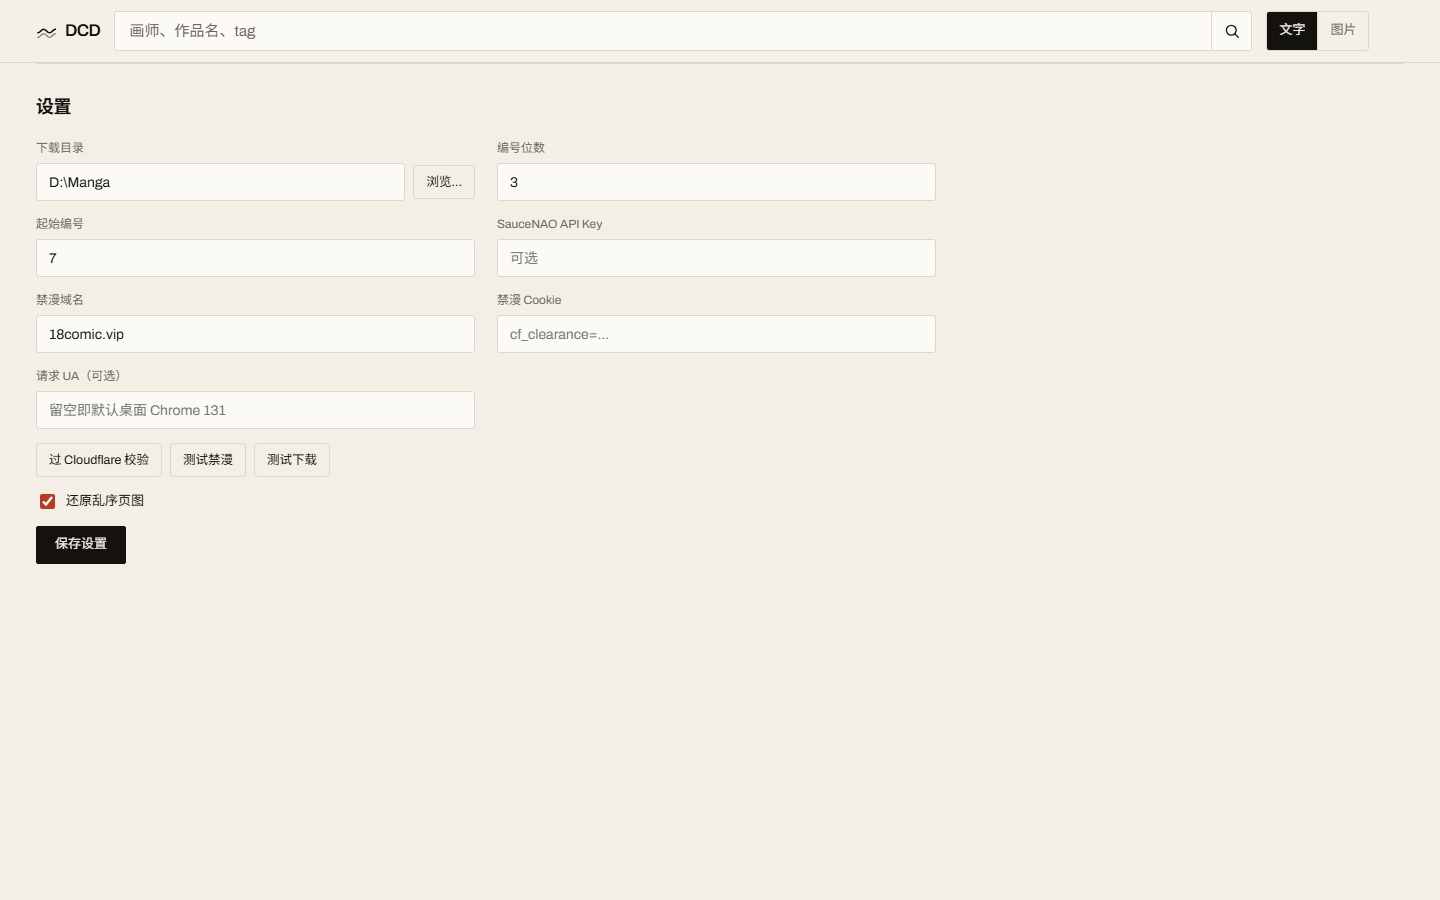
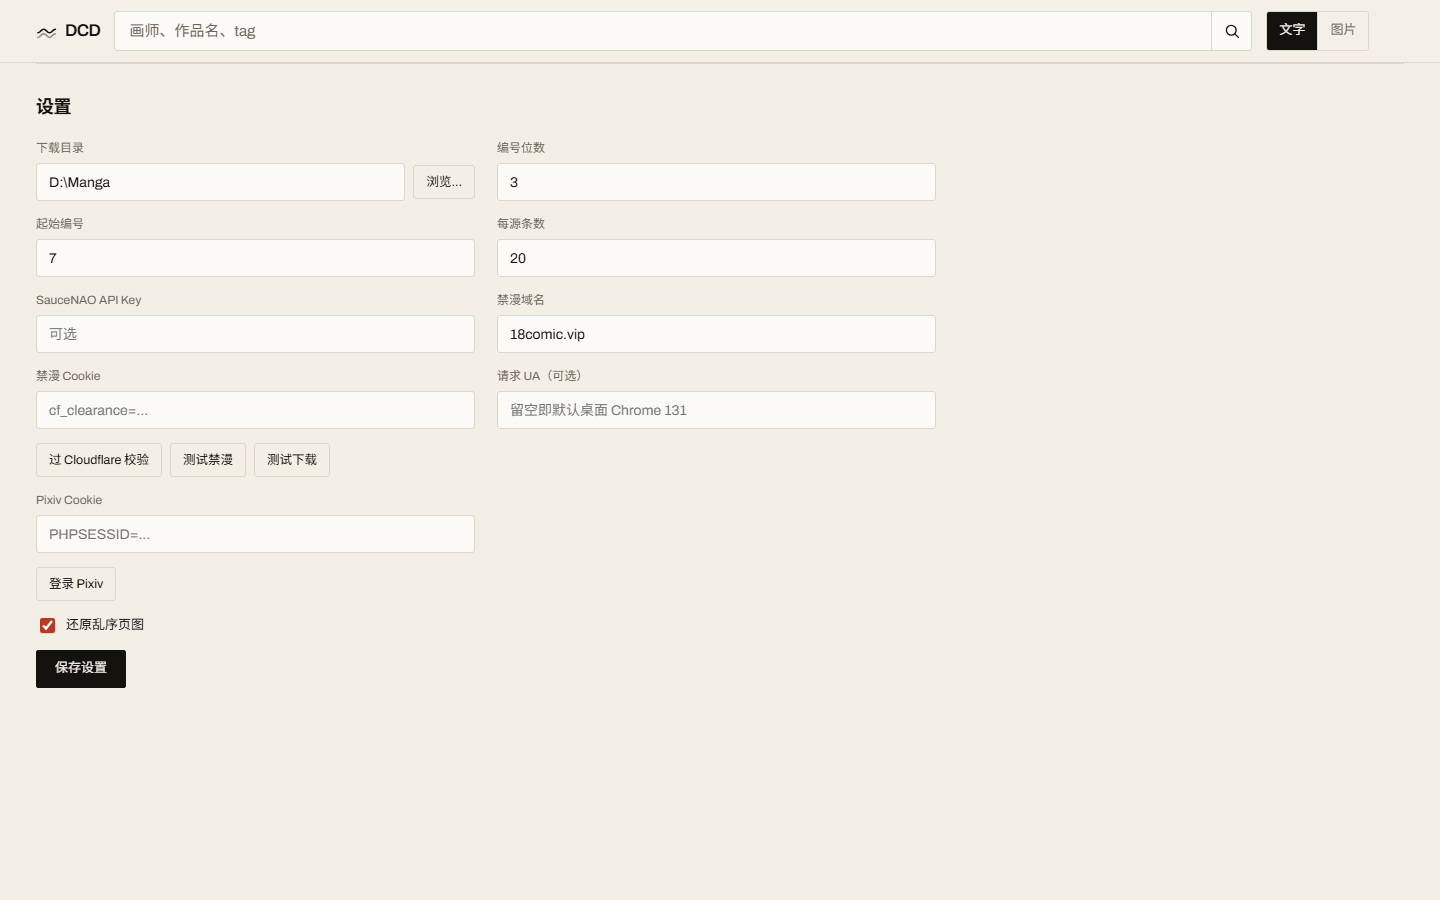
1.1.1: Pixiv cookie field and login window for R-18

diff --git a/ui/app.js b/ui/app.js
@@ -99,7 +99,7 @@
     results: {},
     queue: [],
     scanning: false,
-    settings: { root: '', sauce: '', width: 3, start: 1, jmCookie: '', jmDomain: '18comic.vip', jmDescramble: true, ua: '', perSource: 20 },
+    settings: { root: '', sauce: '', width: 3, start: 1, jmCookie: '', jmDomain: '18comic.vip', jmDescramble: true, ua: '', perSource: 20, pixivCookie: '' },
     disabled: {},
     filter: null,
     kind: null,
@@ -826,6 +826,55 @@
     status.textContent = lines.join(' · ');
   }
 
+
+  /* Pixiv's R-18 works are not a URL problem: the site hides them from anyone
+   * whose session has not enabled "R-18" in the account's viewing settings. The
+   * host window lets the user log in and turn that on, then hands back the
+   * session cookie; the same window uses the User-Agent the engine sends. */
+  async function passPixivLogin() {
+    var status = $('pixivStatus');
+    if (!window.NousPlugin) { status.textContent = '只有正式宿主能开登录窗口'; return; }
+    status.textContent = '已打开窗口，登录并在设置里开启 R-18 后会自动保存';
+    try {
+      var res = await window.NousPlugin.request('runtime.webLogin', {
+        url: 'https://www.pixiv.net/',
+        domains: ['pixiv.net', 'www.pixiv.net'],
+        cookieUrls: ['https://www.pixiv.net/', 'https://www.pixiv.net/setting_user.php'],
+        requiredCookies: [['PHPSESSID']],
+        userAgents: { 'windows-x64': E.currentUserAgent() },
+        urls: { 'windows-x64': 'https://www.pixiv.net/' }
+      }, { timeoutMs: 600000 });
+      var cookie = String((res && res.cookie) || '');
+      if (!cookie) throw new Error('E_AUTH: 没有取到 Cookie');
+      App.settings.pixivCookie = cookie;
+      $('fields').pixivCookie.value = cookie;
+      await saveSettings();
+      var hosts = ['pixiv.net', '.pixiv.net', 'www.pixiv.net'];
+      for (var i = 0; i < hosts.length; i++) {
+        await Host.invoke('cookie.set', { host: hosts[i], cookie: cookie }).catch(function () {});
+      }
+      status.textContent = '已保存 ' + cookie.split(';').length + ' 项 · ' + await pixivR18State();
+    } catch (err) {
+      status.textContent = String(err && err.message ? err.message : err).slice(0, 90);
+    }
+  }
+
+  /* One R-18 query tells whether the account may actually see such works. */
+  async function pixivR18State() {
+    try {
+      var url = 'https://www.pixiv.net/ajax/search/artworks/%E3%83%86%E3%82%B9%E3%83%88?' + [
+        'word=' + encodeURIComponent('テスト'), 'p=1', 'lang=zh', 'mode=r18'
+      ].join('&');
+      var r = await ctx.get(url, { headers: E.getSource('pixiv').headers() });
+      var json = JSON.parse(r.body);
+      var list = ((json.body && json.body.illustManga) || {}).data || [];
+      var r18 = list.filter(function (it) { return String(it.xRestrict) !== '0'; }).length;
+      return r18 > 0 ? ('R-18 已开启（本次检索 ' + r18 + ' 条）') : '账号似乎未开启 R-18 显示（检索 0 条）';
+    } catch (err) {
+      return 'R-18 状态未知';
+    }
+  }
+
   function commitRoot(path) {
     App.settings.root = path;
     var form = $('fields');
@@ -953,6 +1002,7 @@
     form.jmDescramble.checked = App.settings.jmDescramble !== false;
     form.ua.value = App.settings.ua || '';
     form.perSource.value = String(App.settings.perSource || 20);
+    form.pixivCookie.value = App.settings.pixivCookie || '';
   }
 
   function setView(view) {
@@ -989,6 +1039,10 @@
     });
     $('browseRoot').addEventListener('click', function () { Picker.open($('fields').root.value.trim()); });
     if ($('jmProbe')) $('jmProbe').addEventListener('click', probeJm);
+    if ($('pixivLogin')) {
+      if (window.NousPlugin) $('pixivLogin').addEventListener('click', passPixivLogin);
+      else $('pixivLogin').hidden = true;
+    }
     if ($('dlTest')) $('dlTest').addEventListener('click', testDownload);
     $('pickerUp').addEventListener('click', function () { Picker.up(); });
     $('pickerNew').addEventListener('click', function () { Picker.create(); });
@@ -1017,6 +1071,13 @@
       App.settings.ua = form.ua.value.trim();
       E.setUserAgent(App.settings.ua);
       App.settings.perSource = Math.min(60, Math.max(4, parseInt(form.perSource.value, 10) || 20));
+      App.settings.pixivCookie = form.pixivCookie.value.trim();
+      if (App.settings.pixivCookie) {
+        var pxHosts = ['pixiv.net', '.pixiv.net', 'www.pixiv.net'];
+        for (var pi = 0; pi < pxHosts.length; pi++) {
+          await Host.invoke('cookie.set', { host: pxHosts[pi], cookie: App.settings.pixivCookie }).catch(function () {});
+        }
+      }
       var start = Math.max(1, parseInt(form.start.value, 10) || 1);
       App.counter = start;
       await saveSettings();

diff --git a/ui/index.html b/ui/index.html
@@ -118,6 +118,14 @@
       <button class="ghost-btn" type="button" id="dlTest">测试下载</button>
       <span class="jmstatus" id="jmStatus" aria-live="polite"></span>
     </div>
+    <div class="field">
+      <label for="pixivCookieInput">Pixiv Cookie</label>
+      <input id="pixivCookieInput" name="pixivCookie" type="text" placeholder="PHPSESSID=..." spellcheck="false">
+    </div>
+    <div class="inline span">
+      <button class="ghost-btn" type="button" id="pixivLogin">登录 Pixiv</button>
+      <span class="jmstatus" id="pixivStatus" aria-live="polite"></span>
+    </div>
     <label class="check"><input name="jmDescramble" type="checkbox" checked> 还原乱序页图</label>
     <button class="save" type="submit">保存设置</button>
     <span class="saved" id="saved" aria-live="polite"></span>

diff --git a/ui/preview-dark.html b/ui/preview-dark.html
@@ -118,6 +118,14 @@
       <button class="ghost-btn" type="button" id="dlTest">测试下载</button>
       <span class="jmstatus" id="jmStatus" aria-live="polite"></span>
     </div>
+    <div class="field">
+      <label for="pixivCookieInput">Pixiv Cookie</label>
+      <input id="pixivCookieInput" name="pixivCookie" type="text" placeholder="PHPSESSID=..." spellcheck="false">
+    </div>
+    <div class="inline span">
+      <button class="ghost-btn" type="button" id="pixivLogin">登录 Pixiv</button>
+      <span class="jmstatus" id="pixivStatus" aria-live="polite"></span>
+    </div>
     <label class="check"><input name="jmDescramble" type="checkbox" checked> 还原乱序页图</label>
     <button class="save" type="submit">保存设置</button>
     <span class="saved" id="saved" aria-live="polite"></span>

diff --git a/ui/preview-empty.html b/ui/preview-empty.html
@@ -118,6 +118,14 @@
       <button class="ghost-btn" type="button" id="dlTest">测试下载</button>
       <span class="jmstatus" id="jmStatus" aria-live="polite"></span>
     </div>
+    <div class="field">
+      <label for="pixivCookieInput">Pixiv Cookie</label>
+      <input id="pixivCookieInput" name="pixivCookie" type="text" placeholder="PHPSESSID=..." spellcheck="false">
+    </div>
+    <div class="inline span">
+      <button class="ghost-btn" type="button" id="pixivLogin">登录 Pixiv</button>
+      <span class="jmstatus" id="pixivStatus" aria-live="polite"></span>
+    </div>
     <label class="check"><input name="jmDescramble" type="checkbox" checked> 还原乱序页图</label>
     <button class="save" type="submit">保存设置</button>
     <span class="saved" id="saved" aria-live="polite"></span>

diff --git a/ui/preview-grid.html b/ui/preview-grid.html
@@ -118,6 +118,14 @@
       <button class="ghost-btn" type="button" id="dlTest">测试下载</button>
       <span class="jmstatus" id="jmStatus" aria-live="polite"></span>
     </div>
+    <div class="field">
+      <label for="pixivCookieInput">Pixiv Cookie</label>
+      <input id="pixivCookieInput" name="pixivCookie" type="text" placeholder="PHPSESSID=..." spellcheck="false">
+    </div>
+    <div class="inline span">
+      <button class="ghost-btn" type="button" id="pixivLogin">登录 Pixiv</button>
+      <span class="jmstatus" id="pixivStatus" aria-live="polite"></span>
+    </div>
     <label class="check"><input name="jmDescramble" type="checkbox" checked> 还原乱序页图</label>
     <button class="save" type="submit">保存设置</button>
     <span class="saved" id="saved" aria-live="polite"></span>

diff --git a/ui/preview-image.html b/ui/preview-image.html
@@ -118,6 +118,14 @@
       <button class="ghost-btn" type="button" id="dlTest">测试下载</button>
       <span class="jmstatus" id="jmStatus" aria-live="polite"></span>
     </div>
+    <div class="field">
+      <label for="pixivCookieInput">Pixiv Cookie</label>
+      <input id="pixivCookieInput" name="pixivCookie" type="text" placeholder="PHPSESSID=..." spellcheck="false">
+    </div>
+    <div class="inline span">
+      <button class="ghost-btn" type="button" id="pixivLogin">登录 Pixiv</button>
+      <span class="jmstatus" id="pixivStatus" aria-live="polite"></span>
+    </div>
     <label class="check"><input name="jmDescramble" type="checkbox" checked> 还原乱序页图</label>
     <button class="save" type="submit">保存设置</button>
     <span class="saved" id="saved" aria-live="polite"></span>

diff --git a/ui/preview-picker.html b/ui/preview-picker.html
@@ -118,6 +118,14 @@
       <button class="ghost-btn" type="button" id="dlTest">测试下载</button>
       <span class="jmstatus" id="jmStatus" aria-live="polite"></span>
     </div>
+    <div class="field">
+      <label for="pixivCookieInput">Pixiv Cookie</label>
+      <input id="pixivCookieInput" name="pixivCookie" type="text" placeholder="PHPSESSID=..." spellcheck="false">
+    </div>
+    <div class="inline span">
+      <button class="ghost-btn" type="button" id="pixivLogin">登录 Pixiv</button>
+      <span class="jmstatus" id="pixivStatus" aria-live="polite"></span>
+    </div>
     <label class="check"><input name="jmDescramble" type="checkbox" checked> 还原乱序页图</label>
     <button class="save" type="submit">保存设置</button>
     <span class="saved" id="saved" aria-live="polite"></span>

diff --git a/ui/preview-settings.html b/ui/preview-settings.html
@@ -118,6 +118,14 @@
       <button class="ghost-btn" type="button" id="dlTest">测试下载</button>
       <span class="jmstatus" id="jmStatus" aria-live="polite"></span>
     </div>
+    <div class="field">
+      <label for="pixivCookieInput">Pixiv Cookie</label>
+      <input id="pixivCookieInput" name="pixivCookie" type="text" placeholder="PHPSESSID=..." spellcheck="false">
+    </div>
+    <div class="inline span">
+      <button class="ghost-btn" type="button" id="pixivLogin">登录 Pixiv</button>
+      <span class="jmstatus" id="pixivStatus" aria-live="polite"></span>
+    </div>
     <label class="check"><input name="jmDescramble" type="checkbox" checked> 还原乱序页图</label>
     <button class="save" type="submit">保存设置</button>
     <span class="saved" id="saved" aria-live="polite"></span>

diff --git a/ui/preview.html b/ui/preview.html
@@ -118,6 +118,14 @@
       <button class="ghost-btn" type="button" id="dlTest">测试下载</button>
       <span class="jmstatus" id="jmStatus" aria-live="polite"></span>
     </div>
+    <div class="field">
+      <label for="pixivCookieInput">Pixiv Cookie</label>
+      <input id="pixivCookieInput" name="pixivCookie" type="text" placeholder="PHPSESSID=..." spellcheck="false">
+    </div>
+    <div class="inline span">
+      <button class="ghost-btn" type="button" id="pixivLogin">登录 Pixiv</button>
+      <span class="jmstatus" id="pixivStatus" aria-live="polite"></span>
+    </div>
     <label class="check"><input name="jmDescramble" type="checkbox" checked> 还原乱序页图</label>
     <button class="save" type="submit">保存设置</button>
     <span class="saved" id="saved" aria-live="polite"></span>

diff --git a/ui/engine.js b/ui/engine.js
@@ -826,7 +826,7 @@
       var q = collapse(query);
       if (!q) return pixiv.browse(ctx, p);
       var url = pixiv.base + '/ajax/search/artworks/' + encodeURIComponent(q) + '?' + qs({
-        word: q, p: p, lang: 'zh', s_mode: 's_tag', order: 'date_d'
+        word: q, p: p, lang: 'zh', s_mode: 's_tag', order: 'date_d', mode: 'all'
       });
       return ctx.get(url, { headers: pixiv.headers() }).then(function (res) {
         var json;

diff --git a/README.md b/README.md
@@ -68,6 +68,17 @@ D:\Manga\
 1. **设置页按钮**（推荐）：`设置 → 过 Cloudflare 校验`。宿主会开一个隔离窗口打开 18comic 域名，你完成站点的人机校验后，窗口自动关闭，`cf_clearance` 等 Cookie 直接写进设置与原生模块的 cookie 罐。窗口使用的 User-Agent 与之后引擎请求用的完全一致（`cf_clearance` 同时绑定 UA 和出口 IP，两边不一致会被判为无效）。
 2. **手动复制**：浏览器打开站点并过校验 → DevTools → Application → Cookies → `https://18comic.vip` → 复制 `cf_clearance` 的值（连同 `__cf_bm` 更好）→ 粘进 `设置 → 禁漫 Cookie`，形如 `cf_clearance=xxx; __cf_bm=yyy`。手动的代价是要自己保证浏览器 UA 与插件默认 UA（桌面 Chrome 131）一致、且与插件走同一出口 IP。
 
+### Pixiv 的 R-18
+
+R-18 不是地址问题，是账号设置问题：Pixiv 对**未登录或未开启 R-18 显示**的会话直接不返回这类作品（检索里看不到，详情返回 `{"error":true}`）。
+
+两条路：
+
+1. **设置 → 登录 Pixiv**（推荐）：宿主开隔离窗口，你登录并在 pixiv 的账号设置里把「閲覧制限 R-18」打开；窗口关闭后 `PHPSESSID` 等 Cookie 自动写入设置与 cookie 罐，并立刻做一次 R-18 检索回报「已开启 / 未开启」。
+2. **手动粘贴**：浏览器登录 pixiv → DevTools → Application → Cookies → `https://www.pixiv.net` → 复制 `PHPSESSID`，粘进「设置 → Pixiv Cookie」，保存时会同时写入 `pixiv.net` / `.pixiv.net` / `www.pixiv.net` 三个域。
+
+图片仍在 `i.pximg.net`，只校验 `Referer: https://www.pixiv.net/`，插件自动带上。
+
 Cookie 会过期（Cloudflare 通常几十分钟），过期后检索会重新报 `E_CHALLENGE`，再过一次校验即可。该站的解析按社区客户端的结构实现，**未在本机通过质询验证**，页面结构变化时会在结果里报 `E_PARSE`。
 
 ## 开发
